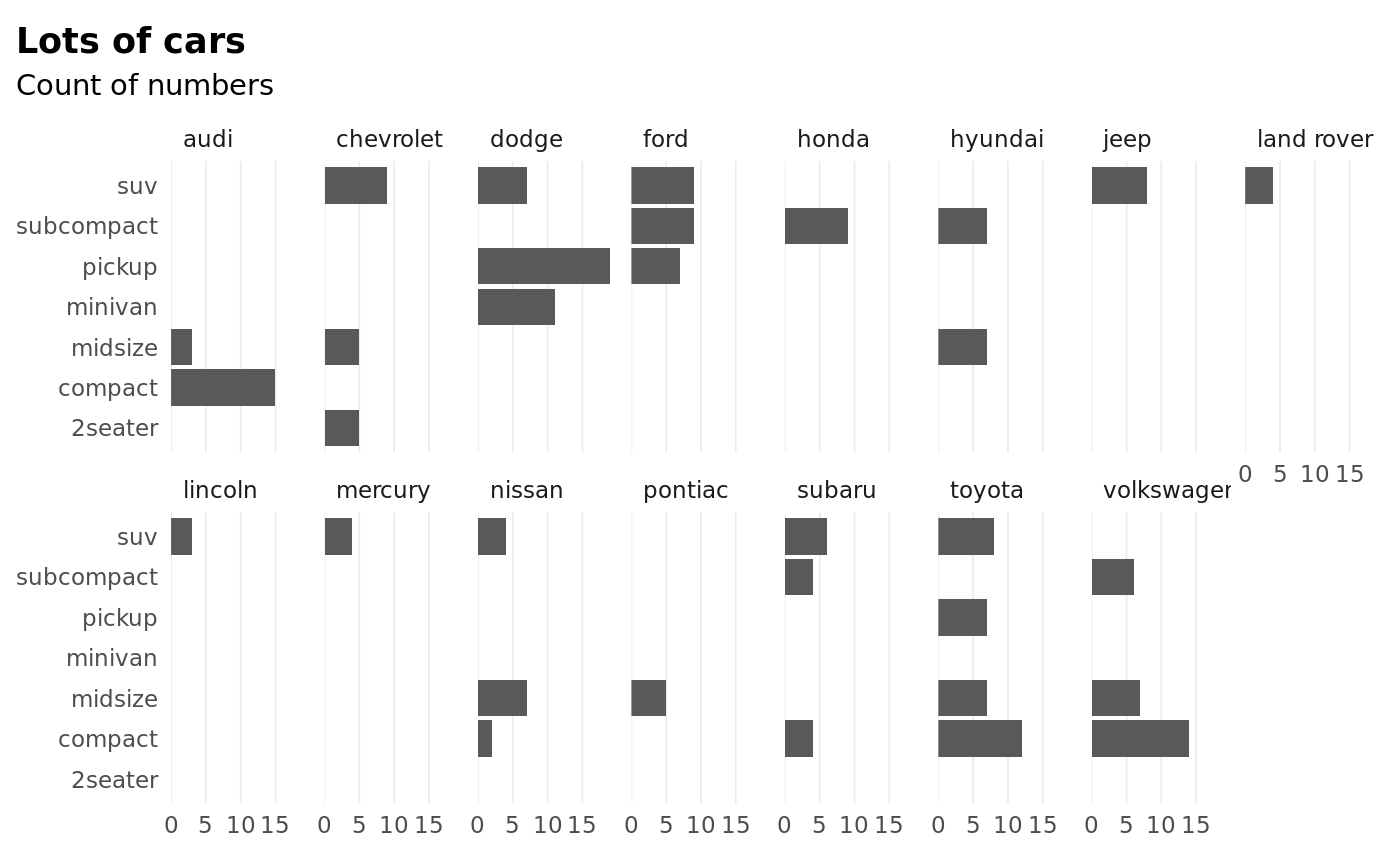
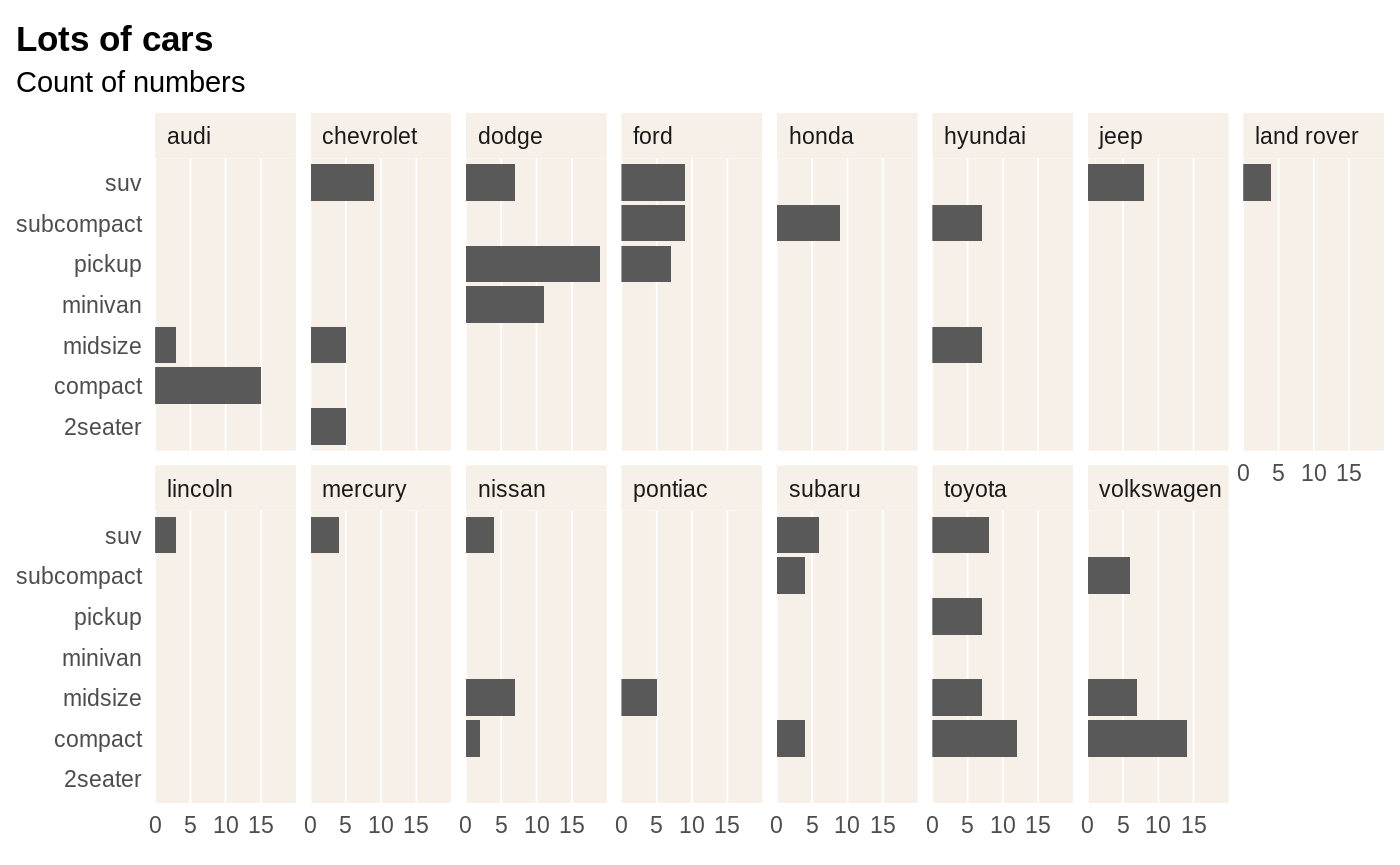
Built site for reschola: 0.1.0.9000@26c9b72

diff --git a/articles/charts.html b/articles/charts.html
@@ -138,6 +138,15 @@
 <a class="sourceLine" id="cb2-20" data-line-number="20"><span class="co">#&gt; You will likely need to install these fonts on your system as well.</span></a>
 <a class="sourceLine" id="cb2-21" data-line-number="21"><span class="co">#&gt; </span></a>
 <a class="sourceLine" id="cb2-22" data-line-number="22"><span class="co">#&gt; You can find them in [/home/travis/R/Library/hrbrthemes/fonts/econ-sans]</span></a></code></pre></div>
+<div class="sourceCode" id="cb3"><pre class="sourceCode r"><code class="sourceCode r"><a class="sourceLine" id="cb3-1" data-line-number="1">extrafont<span class="op">::</span><span class="kw"><a href="https://rdrr.io/pkg/extrafont/man/fonts.html">fonts</a></span>()</a>
+<a class="sourceLine" id="cb3-2" data-line-number="2"><span class="co">#&gt;  [1] "IBM Plex Sans"          "IBM Plex Sans Light"    "IBM Plex Sans Medium"  </span></a>
+<a class="sourceLine" id="cb3-3" data-line-number="3"><span class="co">#&gt;  [4] "IBM Plex Sans Text"     "IBM Plex Sans Thin"     "Roboto Condensed"      </span></a>
+<a class="sourceLine" id="cb3-4" data-line-number="4"><span class="co">#&gt;  [7] "Titillium Web"          "Titillium Web Light"    "Public Sans Black"     </span></a>
+<a class="sourceLine" id="cb3-5" data-line-number="5"><span class="co">#&gt; [10] "Public Sans"            "Public Sans ExtraBold"  "Public Sans ExtraLight"</span></a>
+<a class="sourceLine" id="cb3-6" data-line-number="6"><span class="co">#&gt; [13] "Public Sans Light"      "Public Sans Medium"     "Public Sans SemiBold"  </span></a>
+<a class="sourceLine" id="cb3-7" data-line-number="7"><span class="co">#&gt; [16] "Public Sans Thin"       "EconSansCndBol"         "EconSansCndBolIta"     </span></a>
+<a class="sourceLine" id="cb3-8" data-line-number="8"><span class="co">#&gt; [19] "EconSansCndLig"         "EconSansCndLigIta"      "EconSansCndMed"        </span></a>
+<a class="sourceLine" id="cb3-9" data-line-number="9"><span class="co">#&gt; [22] "EconSansCndMedIta"      "EconSansCndReg"         "EconSansCndRegIta"</span></a></code></pre></div>
 <p>NB: This vignette temporarily serves to test and fine-tune the <code><a href="../reference/theme_schola.html">theme_schola()</a></code> theme and to showcase typography.</p>
 <p>When judging fonts, I would put quite a lot of emphasis on how they display figures, in particular whether the numerals have fixed width by default, meaning they align well: 99 is the same width as 11. Roboto Condensed, IBM Plex Sans, Titillium Sans and Econ Sans all do. Roboto Sans is nice in that it has a normal-width sibling, Roboto, which also has fixed-width figures. It is good to have the normal and condensed fonts when needed, e.g. the condensed works well for crowded axes or longer titles.</p>
 <p>Note the Arial Narrow theme would also be a good choice - this also has fixed width figures, but its normal-width sibling Arial does not.</p>
@@ -147,87 +156,87 @@
 <h2 class="hasAnchor">
 <a href="#the-schola-ggplot2-theme" class="anchor"></a>The Schola ggplot2 theme</h2>
 <p>First, let’s see the default plot, no theme</p>
-<div class="sourceCode" id="cb3"><pre class="sourceCode r"><code class="sourceCode r"><a class="sourceLine" id="cb3-1" data-line-number="1">p &lt;-<span class="st"> </span><span class="kw"><a href="https://ggplot2.tidyverse.org/reference/ggplot.html">ggplot</a></span>(mpg) <span class="op">+</span></a>
-<a class="sourceLine" id="cb3-2" data-line-number="2"><span class="st"> </span><span class="kw"><a href="https://ggplot2.tidyverse.org/reference/geom_bar.html">geom_bar</a></span>(<span class="kw"><a href="https://ggplot2.tidyverse.org/reference/aes.html">aes</a></span>(<span class="dt">y =</span> class)) <span class="op">+</span></a>
-<a class="sourceLine" id="cb3-3" data-line-number="3"><span class="st"> </span><span class="kw"><a href="https://ggplot2.tidyverse.org/reference/labs.html">labs</a></span>(<span class="dt">title =</span> <span class="st">"Lots of cars"</span>, <span class="dt">subtitle =</span> <span class="st">"Count of numbers"</span>)</a>
-<a class="sourceLine" id="cb3-4" data-line-number="4">p</a></code></pre></div>
-<p><img src="charts_files/figure-html/unnamed-chunk-3-1.png" width="700"></p>
-<p>using <code><a href="../reference/theme_schola.html">theme_schola()</a></code> defaults</p>
-<div class="sourceCode" id="cb4"><pre class="sourceCode r"><code class="sourceCode r"><a class="sourceLine" id="cb4-1" data-line-number="1">p <span class="op">+</span></a>
-<a class="sourceLine" id="cb4-2" data-line-number="2"><span class="st"> </span><span class="kw"><a href="../reference/theme_schola.html">theme_schola</a></span>(<span class="st">"x"</span>)</a></code></pre></div>
+<div class="sourceCode" id="cb4"><pre class="sourceCode r"><code class="sourceCode r"><a class="sourceLine" id="cb4-1" data-line-number="1">p &lt;-<span class="st"> </span><span class="kw"><a href="https://ggplot2.tidyverse.org/reference/ggplot.html">ggplot</a></span>(mpg) <span class="op">+</span></a>
+<a class="sourceLine" id="cb4-2" data-line-number="2"><span class="st"> </span><span class="kw"><a href="https://ggplot2.tidyverse.org/reference/geom_bar.html">geom_bar</a></span>(<span class="kw"><a href="https://ggplot2.tidyverse.org/reference/aes.html">aes</a></span>(<span class="dt">y =</span> class)) <span class="op">+</span></a>
+<a class="sourceLine" id="cb4-3" data-line-number="3"><span class="st"> </span><span class="kw"><a href="https://ggplot2.tidyverse.org/reference/labs.html">labs</a></span>(<span class="dt">title =</span> <span class="st">"Lots of cars"</span>, <span class="dt">subtitle =</span> <span class="st">"Count of numbers"</span>)</a>
+<a class="sourceLine" id="cb4-4" data-line-number="4">p</a></code></pre></div>
 <p><img src="charts_files/figure-html/unnamed-chunk-4-1.png" width="700"></p>
-<p>in combination with <code>flush_axis</code>, and using a different font:</p>
+<p>using <code><a href="../reference/theme_schola.html">theme_schola()</a></code> defaults</p>
 <div class="sourceCode" id="cb5"><pre class="sourceCode r"><code class="sourceCode r"><a class="sourceLine" id="cb5-1" data-line-number="1">p <span class="op">+</span></a>
-<a class="sourceLine" id="cb5-2" data-line-number="2"><span class="st"> </span><span class="kw"><a href="../reference/theme_schola.html">theme_schola</a></span>(<span class="st">"x"</span>, <span class="dt">family =</span> <span class="st">"Titillium Web"</span>) <span class="op">+</span></a>
-<a class="sourceLine" id="cb5-3" data-line-number="3"><span class="st"> </span><span class="kw"><a href="https://ggplot2.tidyverse.org/reference/scale_continuous.html">scale_x_continuous</a></span>(<span class="dt">expand =</span> flush_axis)</a></code></pre></div>
+<a class="sourceLine" id="cb5-2" data-line-number="2"><span class="st"> </span><span class="kw"><a href="../reference/theme_schola.html">theme_schola</a></span>(<span class="st">"x"</span>)</a></code></pre></div>
 <p><img src="charts_files/figure-html/unnamed-chunk-5-1.png" width="700"></p>
-<p>Scatterplot, using yet another font</p>
-<div class="sourceCode" id="cb6"><pre class="sourceCode r"><code class="sourceCode r"><a class="sourceLine" id="cb6-1" data-line-number="1"><span class="kw"><a href="https://ggplot2.tidyverse.org/reference/ggplot.html">ggplot</a></span>(mpg) <span class="op">+</span></a>
-<a class="sourceLine" id="cb6-2" data-line-number="2"><span class="st"> </span><span class="kw"><a href="https://ggplot2.tidyverse.org/reference/geom_point.html">geom_point</a></span>(<span class="kw"><a href="https://ggplot2.tidyverse.org/reference/aes.html">aes</a></span>(cty, hwy)) <span class="op">+</span></a>
-<a class="sourceLine" id="cb6-3" data-line-number="3"><span class="st"> </span><span class="kw"><a href="../reference/theme_schola.html">theme_schola</a></span>(<span class="st">"scatter"</span>, <span class="dt">family =</span> <span class="st">"IBM Plex Sans"</span>) <span class="op">+</span></a>
-<a class="sourceLine" id="cb6-4" data-line-number="4"><span class="st"> </span><span class="kw"><a href="https://ggplot2.tidyverse.org/reference/labs.html">labs</a></span>(<span class="dt">title =</span> <span class="st">"Lots of cars"</span>, <span class="dt">subtitle =</span> <span class="st">"Point by point"</span>)</a></code></pre></div>
+<p>in combination with <code>flush_axis</code>, and using a different font:</p>
+<div class="sourceCode" id="cb6"><pre class="sourceCode r"><code class="sourceCode r"><a class="sourceLine" id="cb6-1" data-line-number="1">p <span class="op">+</span></a>
+<a class="sourceLine" id="cb6-2" data-line-number="2"><span class="st"> </span><span class="kw"><a href="../reference/theme_schola.html">theme_schola</a></span>(<span class="st">"x"</span>, <span class="dt">family =</span> <span class="st">"Titillium Web"</span>) <span class="op">+</span></a>
+<a class="sourceLine" id="cb6-3" data-line-number="3"><span class="st"> </span><span class="kw"><a href="https://ggplot2.tidyverse.org/reference/scale_continuous.html">scale_x_continuous</a></span>(<span class="dt">expand =</span> flush_axis)</a></code></pre></div>
 <p><img src="charts_files/figure-html/unnamed-chunk-6-1.png" width="700"></p>
-<p>Smaller text, flush alignment</p>
+<p>Scatterplot, using yet another font</p>
 <div class="sourceCode" id="cb7"><pre class="sourceCode r"><code class="sourceCode r"><a class="sourceLine" id="cb7-1" data-line-number="1"><span class="kw"><a href="https://ggplot2.tidyverse.org/reference/ggplot.html">ggplot</a></span>(mpg) <span class="op">+</span></a>
-<a class="sourceLine" id="cb7-2" data-line-number="2"><span class="st"> </span><span class="kw"><a href="https://ggplot2.tidyverse.org/reference/geom_point.html">geom_point</a></span>(<span class="kw"><a href="https://ggplot2.tidyverse.org/reference/aes.html">aes</a></span>(cty, hwy), <span class="dt">alpha =</span> <span class="fl">.2</span>) <span class="op">+</span></a>
-<a class="sourceLine" id="cb7-3" data-line-number="3"><span class="st"> </span><span class="kw"><a href="../reference/theme_schola.html">theme_schola</a></span>(<span class="st">"scatter"</span>, <span class="dt">base_size =</span> <span class="dv">9</span>, <span class="dt">side_margin =</span> <span class="dv">0</span>) <span class="op">+</span></a>
+<a class="sourceLine" id="cb7-2" data-line-number="2"><span class="st"> </span><span class="kw"><a href="https://ggplot2.tidyverse.org/reference/geom_point.html">geom_point</a></span>(<span class="kw"><a href="https://ggplot2.tidyverse.org/reference/aes.html">aes</a></span>(cty, hwy)) <span class="op">+</span></a>
+<a class="sourceLine" id="cb7-3" data-line-number="3"><span class="st"> </span><span class="kw"><a href="../reference/theme_schola.html">theme_schola</a></span>(<span class="st">"scatter"</span>, <span class="dt">family =</span> <span class="st">"IBM Plex Sans"</span>) <span class="op">+</span></a>
 <a class="sourceLine" id="cb7-4" data-line-number="4"><span class="st"> </span><span class="kw"><a href="https://ggplot2.tidyverse.org/reference/labs.html">labs</a></span>(<span class="dt">title =</span> <span class="st">"Lots of cars"</span>, <span class="dt">subtitle =</span> <span class="st">"Point by point"</span>)</a></code></pre></div>
 <p><img src="charts_files/figure-html/unnamed-chunk-7-1.png" width="700"></p>
+<p>Smaller text, flush alignment</p>
+<div class="sourceCode" id="cb8"><pre class="sourceCode r"><code class="sourceCode r"><a class="sourceLine" id="cb8-1" data-line-number="1"><span class="kw"><a href="https://ggplot2.tidyverse.org/reference/ggplot.html">ggplot</a></span>(mpg) <span class="op">+</span></a>
+<a class="sourceLine" id="cb8-2" data-line-number="2"><span class="st"> </span><span class="kw"><a href="https://ggplot2.tidyverse.org/reference/geom_point.html">geom_point</a></span>(<span class="kw"><a href="https://ggplot2.tidyverse.org/reference/aes.html">aes</a></span>(cty, hwy), <span class="dt">alpha =</span> <span class="fl">.2</span>) <span class="op">+</span></a>
+<a class="sourceLine" id="cb8-3" data-line-number="3"><span class="st"> </span><span class="kw"><a href="../reference/theme_schola.html">theme_schola</a></span>(<span class="st">"scatter"</span>, <span class="dt">base_size =</span> <span class="dv">9</span>, <span class="dt">side_margin =</span> <span class="dv">0</span>) <span class="op">+</span></a>
+<a class="sourceLine" id="cb8-4" data-line-number="4"><span class="st"> </span><span class="kw"><a href="https://ggplot2.tidyverse.org/reference/labs.html">labs</a></span>(<span class="dt">title =</span> <span class="st">"Lots of cars"</span>, <span class="dt">subtitle =</span> <span class="st">"Point by point"</span>)</a></code></pre></div>
+<p><img src="charts_files/figure-html/unnamed-chunk-8-1.png" width="700"></p>
 <div id="override-defaults-changed-inside-theme_schola" class="section level3">
 <h3 class="hasAnchor">
 <a href="#override-defaults-changed-inside-theme_schola" class="anchor"></a>Override defaults changed inside <code>theme_schola()</code>
 </h3>
-<div class="sourceCode" id="cb8"><pre class="sourceCode r"><code class="sourceCode r"><a class="sourceLine" id="cb8-1" data-line-number="1"><span class="kw"><a href="https://ggplot2.tidyverse.org/reference/ggplot.html">ggplot</a></span>(mpg) <span class="op">+</span></a>
-<a class="sourceLine" id="cb8-2" data-line-number="2"><span class="st"> </span><span class="kw"><a href="https://ggplot2.tidyverse.org/reference/geom_point.html">geom_point</a></span>(<span class="kw"><a href="https://ggplot2.tidyverse.org/reference/aes.html">aes</a></span>(cty, hwy), <span class="dt">alpha =</span> <span class="fl">.2</span>) <span class="op">+</span></a>
-<a class="sourceLine" id="cb8-3" data-line-number="3"><span class="st"> </span><span class="kw"><a href="../reference/theme_schola.html">theme_schola</a></span>(<span class="st">"scatter"</span>, <span class="dt">base_size =</span> <span class="dv">12</span>, <span class="dt">side_margin =</span> <span class="dv">0</span>, <span class="dt">family =</span> <span class="st">"Roboto Condensed"</span>) <span class="op">+</span></a>
-<a class="sourceLine" id="cb8-4" data-line-number="4"><span class="st"> </span><span class="kw"><a href="https://ggplot2.tidyverse.org/reference/labs.html">labs</a></span>(<span class="dt">title =</span> <span class="st">"Lots of cars"</span>, <span class="dt">subtitle =</span> <span class="st">"Point by point"</span>) <span class="op">+</span></a>
-<a class="sourceLine" id="cb8-5" data-line-number="5"><span class="st"> </span><span class="kw"><a href="https://ggplot2.tidyverse.org/reference/theme.html">theme</a></span>(<span class="dt">panel.background =</span> <span class="kw"><a href="https://ggplot2.tidyverse.org/reference/element.html">element_rect</a></span>(<span class="dt">fill =</span> <span class="st">"lightpink"</span>))</a></code></pre></div>
-<p><img src="charts_files/figure-html/unnamed-chunk-8-1.png" width="700"></p>
+<div class="sourceCode" id="cb9"><pre class="sourceCode r"><code class="sourceCode r"><a class="sourceLine" id="cb9-1" data-line-number="1"><span class="kw"><a href="https://ggplot2.tidyverse.org/reference/ggplot.html">ggplot</a></span>(mpg) <span class="op">+</span></a>
+<a class="sourceLine" id="cb9-2" data-line-number="2"><span class="st"> </span><span class="kw"><a href="https://ggplot2.tidyverse.org/reference/geom_point.html">geom_point</a></span>(<span class="kw"><a href="https://ggplot2.tidyverse.org/reference/aes.html">aes</a></span>(cty, hwy), <span class="dt">alpha =</span> <span class="fl">.2</span>) <span class="op">+</span></a>
+<a class="sourceLine" id="cb9-3" data-line-number="3"><span class="st"> </span><span class="kw"><a href="../reference/theme_schola.html">theme_schola</a></span>(<span class="st">"scatter"</span>, <span class="dt">base_size =</span> <span class="dv">12</span>, <span class="dt">side_margin =</span> <span class="dv">0</span>, <span class="dt">family =</span> <span class="st">"Roboto Condensed"</span>) <span class="op">+</span></a>
+<a class="sourceLine" id="cb9-4" data-line-number="4"><span class="st"> </span><span class="kw"><a href="https://ggplot2.tidyverse.org/reference/labs.html">labs</a></span>(<span class="dt">title =</span> <span class="st">"Lots of cars"</span>, <span class="dt">subtitle =</span> <span class="st">"Point by point"</span>) <span class="op">+</span></a>
+<a class="sourceLine" id="cb9-5" data-line-number="5"><span class="st"> </span><span class="kw"><a href="https://ggplot2.tidyverse.org/reference/theme.html">theme</a></span>(<span class="dt">panel.background =</span> <span class="kw"><a href="https://ggplot2.tidyverse.org/reference/element.html">element_rect</a></span>(<span class="dt">fill =</span> <span class="st">"lightpink"</span>))</a></code></pre></div>
+<p><img src="charts_files/figure-html/unnamed-chunk-9-1.png" width="700"></p>
 </div>
 <div id="small-mutliples" class="section level3">
 <h3 class="hasAnchor">
 <a href="#small-mutliples" class="anchor"></a>Small mutliples</h3>
 <p>Smaller text, using Arial Narrow</p>
-<div class="sourceCode" id="cb9"><pre class="sourceCode r"><code class="sourceCode r"><a class="sourceLine" id="cb9-1" data-line-number="1">p <span class="op">+</span></a>
-<a class="sourceLine" id="cb9-2" data-line-number="2"><span class="st"> </span><span class="kw"><a href="../reference/theme_schola.html">theme_schola</a></span>(<span class="st">"x"</span>, <span class="dt">multiplot =</span> T) <span class="op">+</span></a>
-<a class="sourceLine" id="cb9-3" data-line-number="3"><span class="st"> </span><span class="kw"><a href="https://ggplot2.tidyverse.org/reference/scale_continuous.html">scale_x_continuous</a></span>(<span class="dt">expand =</span> flush_axis) <span class="op">+</span></a>
-<a class="sourceLine" id="cb9-4" data-line-number="4"><span class="st"> </span><span class="kw"><a href="https://ggplot2.tidyverse.org/reference/facet_wrap.html">facet_wrap</a></span>(<span class="op">~</span><span class="st"> </span>manufacturer, <span class="dt">nrow =</span> <span class="dv">2</span>)</a></code></pre></div>
-<p><img src="charts_files/figure-html/unnamed-chunk-9-1.png" width="700"></p>
-<p>Same without aesthetic adjustment for <code><a href="https://ggplot2.tidyverse.org/reference/facet_wrap.html">facet_wrap()</a></code></p>
 <div class="sourceCode" id="cb10"><pre class="sourceCode r"><code class="sourceCode r"><a class="sourceLine" id="cb10-1" data-line-number="1">p <span class="op">+</span></a>
-<a class="sourceLine" id="cb10-2" data-line-number="2"><span class="st"> </span><span class="kw"><a href="../reference/theme_schola.html">theme_schola</a></span>(<span class="st">"x"</span>, <span class="dt">multiplot =</span> F, <span class="dt">family =</span> <span class="st">"Public Sans"</span>) <span class="op">+</span></a>
+<a class="sourceLine" id="cb10-2" data-line-number="2"><span class="st"> </span><span class="kw"><a href="../reference/theme_schola.html">theme_schola</a></span>(<span class="st">"x"</span>, <span class="dt">multiplot =</span> T) <span class="op">+</span></a>
 <a class="sourceLine" id="cb10-3" data-line-number="3"><span class="st"> </span><span class="kw"><a href="https://ggplot2.tidyverse.org/reference/scale_continuous.html">scale_x_continuous</a></span>(<span class="dt">expand =</span> flush_axis) <span class="op">+</span></a>
 <a class="sourceLine" id="cb10-4" data-line-number="4"><span class="st"> </span><span class="kw"><a href="https://ggplot2.tidyverse.org/reference/facet_wrap.html">facet_wrap</a></span>(<span class="op">~</span><span class="st"> </span>manufacturer, <span class="dt">nrow =</span> <span class="dv">2</span>)</a></code></pre></div>
 <p><img src="charts_files/figure-html/unnamed-chunk-10-1.png" width="700"></p>
-<p>Small mutliples scatter and make it look like The Economist</p>
-<div class="sourceCode" id="cb11"><pre class="sourceCode r"><code class="sourceCode r"><a class="sourceLine" id="cb11-1" data-line-number="1"><span class="kw"><a href="https://ggplot2.tidyverse.org/reference/ggplot.html">ggplot</a></span>(mpg) <span class="op">+</span></a>
-<a class="sourceLine" id="cb11-2" data-line-number="2"><span class="st"> </span><span class="kw"><a href="https://ggplot2.tidyverse.org/reference/geom_point.html">geom_point</a></span>(<span class="kw"><a href="https://ggplot2.tidyverse.org/reference/aes.html">aes</a></span>(cty, hwy), <span class="dt">alpha =</span> <span class="fl">.2</span>) <span class="op">+</span></a>
-<a class="sourceLine" id="cb11-3" data-line-number="3"><span class="st"> </span><span class="kw"><a href="../reference/theme_schola.html">theme_schola</a></span>(<span class="st">"scatter"</span>, <span class="dt">multiplot =</span> T, <span class="dt">family =</span> hrbrthemes<span class="op">::</span>font_es,</a>
-<a class="sourceLine" id="cb11-4" data-line-number="4">              <span class="dt">title_family =</span> hrbrthemes<span class="op">::</span>font_es_bold) <span class="op">+</span></a>
-<a class="sourceLine" id="cb11-5" data-line-number="5"><span class="st"> </span><span class="kw"><a href="https://ggplot2.tidyverse.org/reference/labs.html">labs</a></span>(<span class="dt">title =</span> <span class="st">"Lots of cars"</span>, <span class="dt">subtitle =</span> <span class="st">"Point by point"</span>) <span class="op">+</span></a>
-<a class="sourceLine" id="cb11-6" data-line-number="6"><span class="st"> </span><span class="kw"><a href="https://ggplot2.tidyverse.org/reference/facet_wrap.html">facet_wrap</a></span>(<span class="op">~</span><span class="st"> </span>class, <span class="dt">nrow =</span> <span class="dv">2</span>)</a></code></pre></div>
+<p>Same without aesthetic adjustment for <code><a href="https://ggplot2.tidyverse.org/reference/facet_wrap.html">facet_wrap()</a></code></p>
+<div class="sourceCode" id="cb11"><pre class="sourceCode r"><code class="sourceCode r"><a class="sourceLine" id="cb11-1" data-line-number="1">p <span class="op">+</span></a>
+<a class="sourceLine" id="cb11-2" data-line-number="2"><span class="st"> </span><span class="kw"><a href="../reference/theme_schola.html">theme_schola</a></span>(<span class="st">"x"</span>, <span class="dt">multiplot =</span> F, <span class="dt">family =</span> <span class="st">"Public Sans"</span>) <span class="op">+</span></a>
+<a class="sourceLine" id="cb11-3" data-line-number="3"><span class="st"> </span><span class="kw"><a href="https://ggplot2.tidyverse.org/reference/scale_continuous.html">scale_x_continuous</a></span>(<span class="dt">expand =</span> flush_axis) <span class="op">+</span></a>
+<a class="sourceLine" id="cb11-4" data-line-number="4"><span class="st"> </span><span class="kw"><a href="https://ggplot2.tidyverse.org/reference/facet_wrap.html">facet_wrap</a></span>(<span class="op">~</span><span class="st"> </span>manufacturer, <span class="dt">nrow =</span> <span class="dv">2</span>)</a></code></pre></div>
 <p><img src="charts_files/figure-html/unnamed-chunk-11-1.png" width="700"></p>
-<p>Small mutliples grid, using another font setup</p>
-<div class="sourceCode" id="cb12"><pre class="sourceCode r"><code class="sourceCode r"><a class="sourceLine" id="cb12-1" data-line-number="1">p <span class="op">+</span></a>
-<a class="sourceLine" id="cb12-2" data-line-number="2"><span class="st"> </span><span class="kw"><a href="../reference/theme_schola.html">theme_schola</a></span>(<span class="st">"x"</span>, <span class="dt">multiplot =</span> T, <span class="dt">family =</span> <span class="st">"IBM Plex Sans Light"</span>, </a>
-<a class="sourceLine" id="cb12-3" data-line-number="3">              <span class="dt">title_family =</span> <span class="st">"IBM Plex Sans Bold"</span>) <span class="op">+</span></a>
-<a class="sourceLine" id="cb12-4" data-line-number="4"><span class="st"> </span><span class="kw"><a href="https://ggplot2.tidyverse.org/reference/scale_continuous.html">scale_x_continuous</a></span>(<span class="dt">expand =</span> flush_axis) <span class="op">+</span></a>
-<a class="sourceLine" id="cb12-5" data-line-number="5"><span class="st"> </span><span class="kw"><a href="https://ggplot2.tidyverse.org/reference/facet_grid.html">facet_grid</a></span>(cyl <span class="op">~</span><span class="st"> </span>drv)</a></code></pre></div>
+<p>Small mutliples scatter and make it look like The Economist</p>
+<div class="sourceCode" id="cb12"><pre class="sourceCode r"><code class="sourceCode r"><a class="sourceLine" id="cb12-1" data-line-number="1"><span class="kw"><a href="https://ggplot2.tidyverse.org/reference/ggplot.html">ggplot</a></span>(mpg) <span class="op">+</span></a>
+<a class="sourceLine" id="cb12-2" data-line-number="2"><span class="st"> </span><span class="kw"><a href="https://ggplot2.tidyverse.org/reference/geom_point.html">geom_point</a></span>(<span class="kw"><a href="https://ggplot2.tidyverse.org/reference/aes.html">aes</a></span>(cty, hwy), <span class="dt">alpha =</span> <span class="fl">.2</span>) <span class="op">+</span></a>
+<a class="sourceLine" id="cb12-3" data-line-number="3"><span class="st"> </span><span class="kw"><a href="../reference/theme_schola.html">theme_schola</a></span>(<span class="st">"scatter"</span>, <span class="dt">multiplot =</span> T, <span class="dt">family =</span> hrbrthemes<span class="op">::</span>font_es,</a>
+<a class="sourceLine" id="cb12-4" data-line-number="4">              <span class="dt">title_family =</span> hrbrthemes<span class="op">::</span>font_es_bold) <span class="op">+</span></a>
+<a class="sourceLine" id="cb12-5" data-line-number="5"><span class="st"> </span><span class="kw"><a href="https://ggplot2.tidyverse.org/reference/labs.html">labs</a></span>(<span class="dt">title =</span> <span class="st">"Lots of cars"</span>, <span class="dt">subtitle =</span> <span class="st">"Point by point"</span>) <span class="op">+</span></a>
+<a class="sourceLine" id="cb12-6" data-line-number="6"><span class="st"> </span><span class="kw"><a href="https://ggplot2.tidyverse.org/reference/facet_wrap.html">facet_wrap</a></span>(<span class="op">~</span><span class="st"> </span>class, <span class="dt">nrow =</span> <span class="dv">2</span>)</a></code></pre></div>
 <p><img src="charts_files/figure-html/unnamed-chunk-12-1.png" width="700"></p>
-<p>Small mutliples scatter grid, using Arial Narrow</p>
-<div class="sourceCode" id="cb13"><pre class="sourceCode r"><code class="sourceCode r"><a class="sourceLine" id="cb13-1" data-line-number="1"><span class="kw"><a href="https://ggplot2.tidyverse.org/reference/ggplot.html">ggplot</a></span>(mpg) <span class="op">+</span></a>
-<a class="sourceLine" id="cb13-2" data-line-number="2"><span class="st"> </span><span class="kw"><a href="https://ggplot2.tidyverse.org/reference/geom_point.html">geom_point</a></span>(<span class="kw"><a href="https://ggplot2.tidyverse.org/reference/aes.html">aes</a></span>(cty, hwy), <span class="dt">alpha =</span> <span class="fl">.2</span>) <span class="op">+</span></a>
-<a class="sourceLine" id="cb13-3" data-line-number="3"><span class="st"> </span><span class="kw"><a href="../reference/theme_schola.html">theme_schola</a></span>(<span class="st">"scatter"</span>, <span class="dt">multiplot =</span> T, <span class="dt">family =</span> <span class="st">"Arial Narrow"</span>) <span class="op">+</span></a>
-<a class="sourceLine" id="cb13-4" data-line-number="4"><span class="st"> </span><span class="kw"><a href="https://ggplot2.tidyverse.org/reference/labs.html">labs</a></span>(<span class="dt">title =</span> <span class="st">"Lots of cars"</span>, <span class="dt">subtitle =</span> <span class="st">"Point by point"</span>) <span class="op">+</span></a>
-<a class="sourceLine" id="cb13-5" data-line-number="5"><span class="st"> </span><span class="kw"><a href="https://ggplot2.tidyverse.org/reference/facet_grid.html">facet_grid</a></span>(cyl <span class="op">~</span><span class="st"> </span>class)</a></code></pre></div>
+<p>Small mutliples grid, using another font setup</p>
+<div class="sourceCode" id="cb13"><pre class="sourceCode r"><code class="sourceCode r"><a class="sourceLine" id="cb13-1" data-line-number="1">p <span class="op">+</span></a>
+<a class="sourceLine" id="cb13-2" data-line-number="2"><span class="st"> </span><span class="kw"><a href="../reference/theme_schola.html">theme_schola</a></span>(<span class="st">"x"</span>, <span class="dt">multiplot =</span> T, <span class="dt">family =</span> <span class="st">"IBM Plex Sans Light"</span>, </a>
+<a class="sourceLine" id="cb13-3" data-line-number="3">              <span class="dt">title_family =</span> <span class="st">"IBM Plex Sans Bold"</span>) <span class="op">+</span></a>
+<a class="sourceLine" id="cb13-4" data-line-number="4"><span class="st"> </span><span class="kw"><a href="https://ggplot2.tidyverse.org/reference/scale_continuous.html">scale_x_continuous</a></span>(<span class="dt">expand =</span> flush_axis) <span class="op">+</span></a>
+<a class="sourceLine" id="cb13-5" data-line-number="5"><span class="st"> </span><span class="kw"><a href="https://ggplot2.tidyverse.org/reference/facet_grid.html">facet_grid</a></span>(cyl <span class="op">~</span><span class="st"> </span>drv)</a></code></pre></div>
 <p><img src="charts_files/figure-html/unnamed-chunk-13-1.png" width="700"></p>
-<p>Same but without multiplot parameter</p>
+<p>Small mutliples scatter grid, using Arial Narrow</p>
 <div class="sourceCode" id="cb14"><pre class="sourceCode r"><code class="sourceCode r"><a class="sourceLine" id="cb14-1" data-line-number="1"><span class="kw"><a href="https://ggplot2.tidyverse.org/reference/ggplot.html">ggplot</a></span>(mpg) <span class="op">+</span></a>
 <a class="sourceLine" id="cb14-2" data-line-number="2"><span class="st"> </span><span class="kw"><a href="https://ggplot2.tidyverse.org/reference/geom_point.html">geom_point</a></span>(<span class="kw"><a href="https://ggplot2.tidyverse.org/reference/aes.html">aes</a></span>(cty, hwy), <span class="dt">alpha =</span> <span class="fl">.2</span>) <span class="op">+</span></a>
-<a class="sourceLine" id="cb14-3" data-line-number="3"><span class="st"> </span><span class="kw"><a href="../reference/theme_schola.html">theme_schola</a></span>(<span class="st">"scatter"</span>, <span class="dt">multiplot =</span> F) <span class="op">+</span></a>
+<a class="sourceLine" id="cb14-3" data-line-number="3"><span class="st"> </span><span class="kw"><a href="../reference/theme_schola.html">theme_schola</a></span>(<span class="st">"scatter"</span>, <span class="dt">multiplot =</span> T, <span class="dt">family =</span> <span class="st">"Arial Narrow"</span>) <span class="op">+</span></a>
 <a class="sourceLine" id="cb14-4" data-line-number="4"><span class="st"> </span><span class="kw"><a href="https://ggplot2.tidyverse.org/reference/labs.html">labs</a></span>(<span class="dt">title =</span> <span class="st">"Lots of cars"</span>, <span class="dt">subtitle =</span> <span class="st">"Point by point"</span>) <span class="op">+</span></a>
 <a class="sourceLine" id="cb14-5" data-line-number="5"><span class="st"> </span><span class="kw"><a href="https://ggplot2.tidyverse.org/reference/facet_grid.html">facet_grid</a></span>(cyl <span class="op">~</span><span class="st"> </span>class)</a></code></pre></div>
 <p><img src="charts_files/figure-html/unnamed-chunk-14-1.png" width="700"></p>
+<p>Same but without multiplot parameter</p>
+<div class="sourceCode" id="cb15"><pre class="sourceCode r"><code class="sourceCode r"><a class="sourceLine" id="cb15-1" data-line-number="1"><span class="kw"><a href="https://ggplot2.tidyverse.org/reference/ggplot.html">ggplot</a></span>(mpg) <span class="op">+</span></a>
+<a class="sourceLine" id="cb15-2" data-line-number="2"><span class="st"> </span><span class="kw"><a href="https://ggplot2.tidyverse.org/reference/geom_point.html">geom_point</a></span>(<span class="kw"><a href="https://ggplot2.tidyverse.org/reference/aes.html">aes</a></span>(cty, hwy), <span class="dt">alpha =</span> <span class="fl">.2</span>) <span class="op">+</span></a>
+<a class="sourceLine" id="cb15-3" data-line-number="3"><span class="st"> </span><span class="kw"><a href="../reference/theme_schola.html">theme_schola</a></span>(<span class="st">"scatter"</span>, <span class="dt">multiplot =</span> F) <span class="op">+</span></a>
+<a class="sourceLine" id="cb15-4" data-line-number="4"><span class="st"> </span><span class="kw"><a href="https://ggplot2.tidyverse.org/reference/labs.html">labs</a></span>(<span class="dt">title =</span> <span class="st">"Lots of cars"</span>, <span class="dt">subtitle =</span> <span class="st">"Point by point"</span>) <span class="op">+</span></a>
+<a class="sourceLine" id="cb15-5" data-line-number="5"><span class="st"> </span><span class="kw"><a href="https://ggplot2.tidyverse.org/reference/facet_grid.html">facet_grid</a></span>(cyl <span class="op">~</span><span class="st"> </span>class)</a></code></pre></div>
+<p><img src="charts_files/figure-html/unnamed-chunk-15-1.png" width="700"></p>
 </div>
 </div>
   </div>
